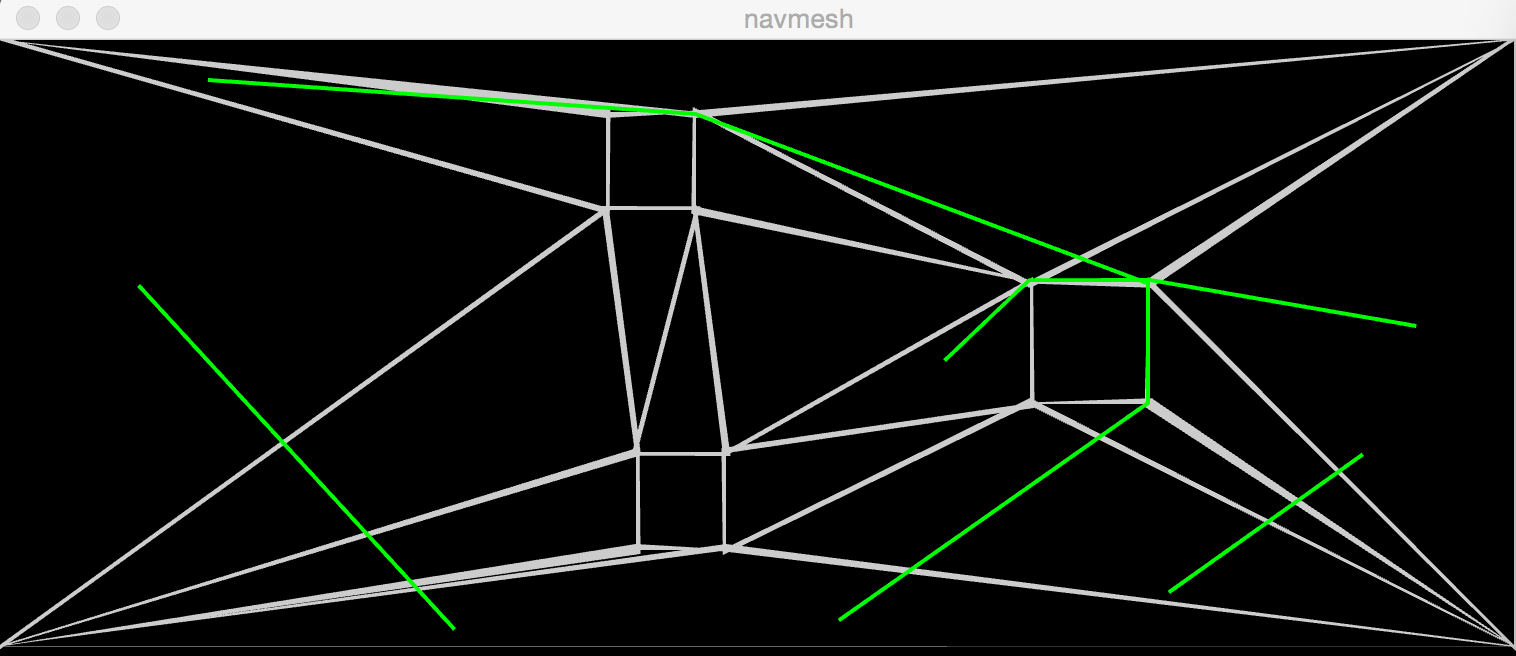
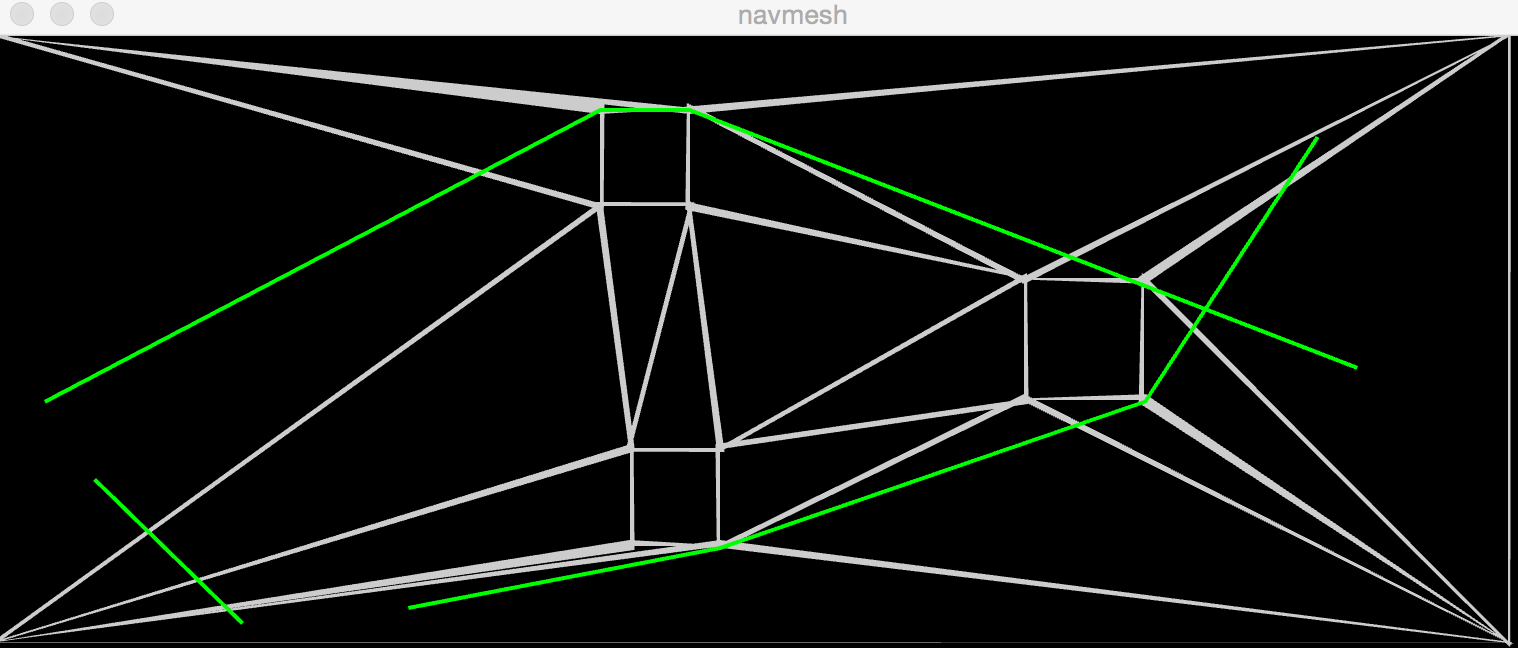
fix a bug and tune

diff --git a/dijkstra.go b/dijkstra.go
@@ -6,12 +6,12 @@ import (
 	"math"
 )
 
-const LARGE_NUMBER = 999999
+const LARGE_NUMBER = math.MaxFloat32
 
 // Triangle Heap
 type WeightedTriangle struct {
 	id     int32 // triangle id
-	weight float32
+	weight float64
 }
 
 type TriangleHeap struct {
@@ -23,7 +23,7 @@ func (th *TriangleHeap) Len() int {
 }
 
 func (th *TriangleHeap) Less(i, j int) bool {
-	return th.triangles[i].weight > th.triangles[j].weight
+	return th.triangles[i].weight < th.triangles[j].weight
 }
 
 func (th *TriangleHeap) Swap(i, j int) {
@@ -41,11 +41,11 @@ func (th *TriangleHeap) Pop() interface{} {
 	return x
 }
 
-func (th *TriangleHeap) DecreaseKey(id int32, weight float32) {
+func (th *TriangleHeap) DecreaseKey(id int32, weight float64) {
 	for k := range th.triangles {
 		if th.triangles[k].id == id {
-			heap.Remove(th, k)
-			heap.Push(th, WeightedTriangle{id, weight})
+			th.triangles[k] = WeightedTriangle{id, weight}
+			heap.Fix(th, k)
 			return
 		}
 	}
@@ -75,7 +75,7 @@ func (d *Dijkstra) CreateMatrixFromMesh(mesh Mesh) {
 				y1 := (mesh.Vertices[mesh.Triangles[i][0]].Y + mesh.Vertices[mesh.Triangles[i][1]].Y + mesh.Vertices[mesh.Triangles[i][2]].Y) / 3.0
 				x2 := (mesh.Vertices[mesh.Triangles[j][0]].X + mesh.Vertices[mesh.Triangles[j][1]].X + mesh.Vertices[mesh.Triangles[j][2]].X) / 3.0
 				y2 := (mesh.Vertices[mesh.Triangles[j][0]].Y + mesh.Vertices[mesh.Triangles[j][1]].Y + mesh.Vertices[mesh.Triangles[j][2]].Y) / 3.0
-				weight := float32(math.Sqrt(float64((x2-x1)*(x2-x1) + (y2-y1)*(y2-y1))))
+				weight := math.Sqrt(float64((x2-x1)*(x2-x1) + (y2-y1)*(y2-y1)))
 				d.Matrix[int32(i)] = append(d.Matrix[int32(i)], WeightedTriangle{int32(j), weight})
 			}
 		}
@@ -103,7 +103,7 @@ func (d *Dijkstra) Run(src_id int32) map[int32]int32 {
 	heap.Init(h)
 
 	// min distance records
-	dist := make(map[int32]float32)
+	dist := make(map[int32]float64)
 
 	// previous map
 	prev := make(map[int32]int32)
@@ -123,7 +123,7 @@ func (d *Dijkstra) Run(src_id int32) map[int32]int32 {
 
 	for h.Len() > 0 { // for every un-visited vertex, try relaxing the path
 		// pop the min element
-		u := h.Pop().(WeightedTriangle)
+		u := heap.Pop(h).(WeightedTriangle)
 		if visited[u.id] {
 			continue
 		}
